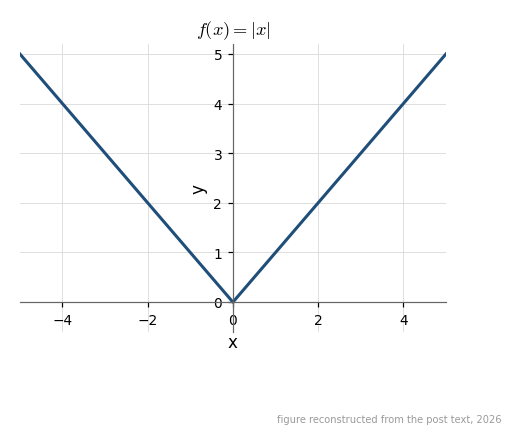
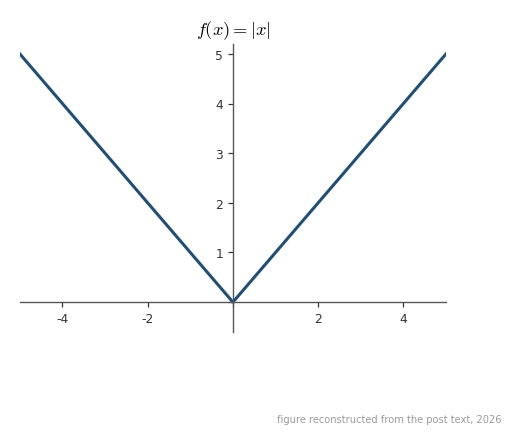
Restyle every reconstruction to match the surviving Mathematica originals
Three figures recovered from the archive settle how these were drawn:
approxfunc.png and plboth.png are Mathematica Plot output (axes crossing
at the origin, no frame, no grid, tick labels on the axes themselves) and
p3dlineb.png is a Plot3D. Reconstructions sit beside those on the same
pages, so the boxed-and-gridded matplotlib default was the wrong look.

axes() now draws crossed unlabelled axes where the origin falls inside
the plotted range and falls back to a frame where it does not, so the
Mandelbrot zooms still read. Two bugs found by looking at the output
rather than the call: matplotlib re-enables the grid when line properties
arrive alongside False, and axis labels placed at the ends of crossed
axes collide with the title.

This also answers one of the two open style questions with evidence
rather than a guess.

diff --git a/_reconstruction/figstyle.py b/_reconstruction/figstyle.py
@@ -40,24 +40,60 @@ plt.rcParams.update({
 })
 
 
-def axes(ax, xr=None, yr=None, grid=True, equal=False,
-         xlabel="x", ylabel="y", spines="box"):
-    """Common axis furniture. spines='cross' puts the axes through the origin."""
+def axes(ax, xr=None, yr=None, grid=None, equal=False,
+         xlabel="x", ylabel="y", spines=None):
+    """Common axis furniture, in the house style of the surviving originals.
+
+    Three figures recovered from the archive (approxfunc.png, plboth.png and
+    the Plot3D in p3dlineb.png) are plainly Mathematica: axes crossing at the
+    origin, no frame, no grid, tick labels sitting on the axes themselves.
+    Reconstructions sit beside those on the same pages, so that is the default
+    here rather than matplotlib's boxed-and-gridded look.
+
+    Where the origin falls outside the plotted range, crossed axes would be
+    off-screen, so the fall-back is a plain frame. Pass spines="box" or
+    grid=True to force the older look.
+    """
     if xr: ax.set_xlim(*xr)
     if yr: ax.set_ylim(*yr)
     if equal: ax.set_aspect("equal")
-    if grid: ax.grid(True, color="#dddddd", lw=0.6)
-    if spines == "cross":
-        for s in ("top", "right"): ax.spines[s].set_visible(False)
-        ax.spines["left"].set_position("zero")
-        ax.spines["bottom"].set_position("zero")
-        ax.spines["left"].set_color("#666666")
-        ax.spines["bottom"].set_color("#666666")
+
+    x0, x1 = ax.get_xlim()
+    y0, y1 = ax.get_ylim()
+    inside = (x0 <= 0 <= x1) and (y0 <= 0 <= y1)
+    if spines is None:
+        spines = "cross" if inside else "box"
+    if grid is None:
+        grid = spines == "box"
+
+    # matplotlib re-enables the grid if line properties arrive alongside False
+    if grid:
+        ax.grid(True, color="#dddddd", lw=0.6)
     else:
-        ax.axhline(0, color="#999999", lw=0.8, zorder=1)
-        ax.axvline(0, color="#999999", lw=0.8, zorder=1)
-    if xlabel: ax.set_xlabel(xlabel)
-    if ylabel: ax.set_ylabel(ylabel)
+        ax.grid(False)
+    if spines == "cross":
+        for s in ("top", "right"):
+            ax.spines[s].set_visible(False)
+        for s in ("left", "bottom"):
+            ax.spines[s].set_position("zero")
+            ax.spines[s].set_color("#555555")
+            ax.spines[s].set_linewidth(0.9)
+        ax.tick_params(direction="out", length=3, width=0.8,
+                       colors="#333333", labelsize=8)
+        # Mathematica omits the tick at the origin, where the labels collide
+        ax.xaxis.set_major_formatter(
+            plt.FuncFormatter(lambda v, _: "" if abs(v) < 1e-12 else f"{v:g}"))
+        ax.yaxis.set_major_formatter(
+            plt.FuncFormatter(lambda v, _: "" if abs(v) < 1e-12 else f"{v:g}"))
+        # Mathematica's Plot carries no axis labels by default and neither do
+        # the surviving originals, and placed at the axis ends they collide
+        # with the title, so crossed axes go unlabelled.
+    else:
+        for s in ("top", "right"):
+            ax.spines[s].set_visible(False)
+        ax.tick_params(labelsize=8)
+        if xlabel: ax.set_xlabel(xlabel, fontsize=10)
+        if ylabel: ax.set_ylabel(ylabel, fontsize=10)
     return ax
 
 

diff --git a/_reconstruction/posts/p10954_areas_between_curves.py b/_reconstruction/posts/p10954_areas_between_curves.py
@@ -124,10 +124,10 @@ save(fig, P["sinsquare.png"])
 fig, ax = plt.subplots(figsize=(7.2, 4.9))
 x = np.linspace(-3, 3, 700)
 ax.plot(x, p(x), color=BLUE, lw=2, zorder=3)
-for s in (lo_i, hi_i):
+for s, off in ((lo_i, (-46, 14)), (hi_i, (10, 14))):
     ax.plot([s], [0], "o", color=RED, ms=7, zorder=4)
     ax.annotate(f"${s:.2f}$", (s, 0), textcoords="offset points",
-                xytext=(4, -20), fontsize=10, color=RED)
+                xytext=off, fontsize=10, color=RED)
 axes(ax, (-3, 3), (-6.5, 3.2))
 ax.set_title(r"$p(x)=\sin x-x^2+2$", fontsize=12)
 save(fig, P["px.png"])
